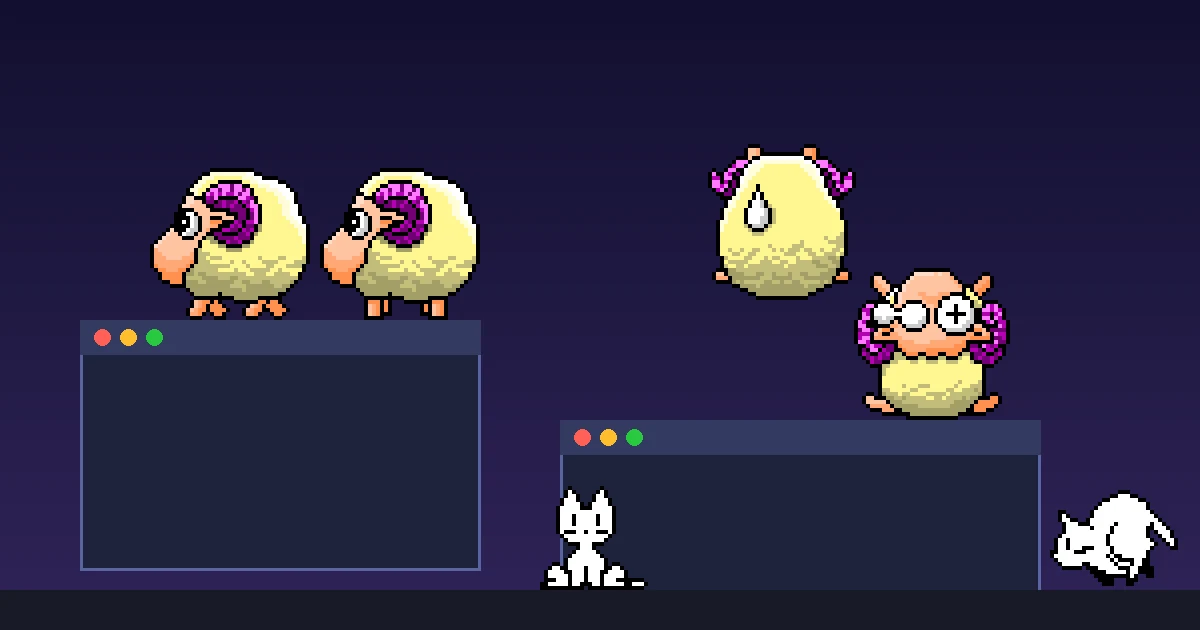
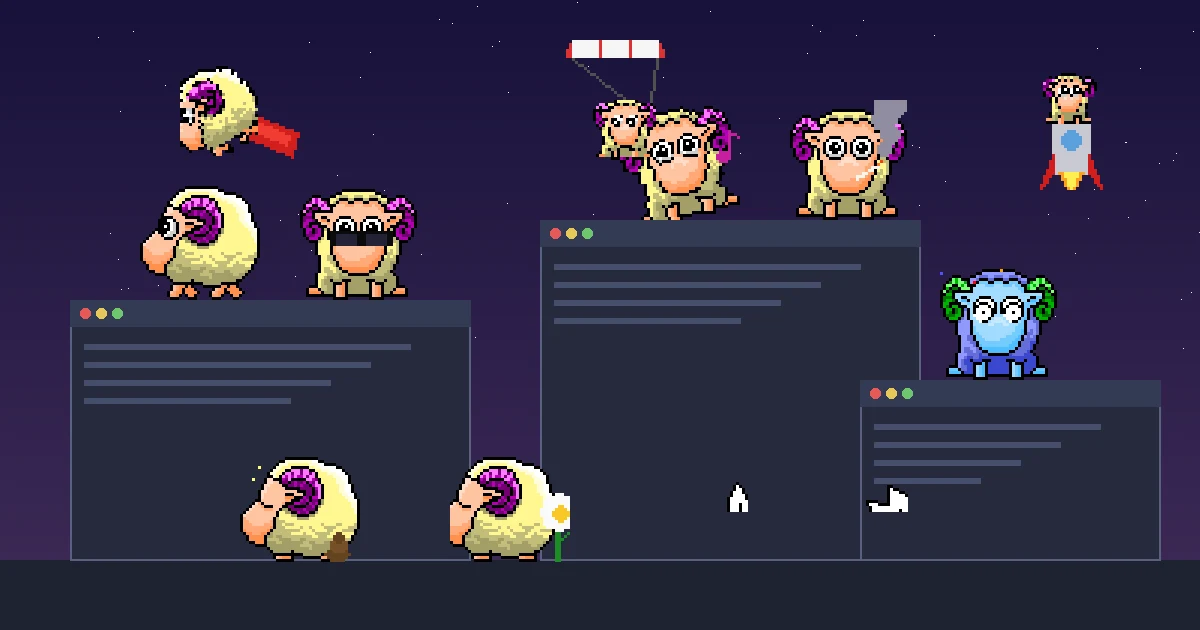
RustyPet 0.17 : les gags RustySheep sur la carte + capture fraîche

diff --git a/index.html b/index.html
@@ -1015,9 +1015,9 @@
           </div>
           <span class="fc-lang lang-rust"><span class="lang-dot"></span> Rust</span>
         </div>
-        <img class="fc-shot" src="shots/rustypet.webp" alt="RustyPet — le mouton marche sur les toits des fenêtres, le neko patrouille au sol" loading="lazy">
+        <img class="fc-shot" src="shots/rustypet.webp" alt="RustyPet — les moutons dansent, fument, volent en superman et décollent en fusée sur les toits des fenêtres" loading="lazy">
         <div class="fc-title">RustyPet</div>
-        <div class="fc-desc">Animal de bureau pour GNOME Shell (Wayland) — portage Rust du légendaire eSheep. Le mouton tombe du haut de l'écran, atterrit sur tes fenêtres, arpente leurs toits… et en retombe. Moteur pur testé sans écran, démon D-Bus + extension GNOME, les 28 pets du corpus d'origine compatibles, simulation déterministe par graine.</div>
+        <div class="fc-desc">Animal de bureau pour GNOME Shell (Wayland) — portage Rust du légendaire eSheep. Le mouton tombe du ciel, atterrit sur tes fenêtres, arpente leurs toits… et depuis la 0.17, RustySheep danse, fume, vole en superman, arrive en parachute, part en fusée, mange la fleur qui pousse et part en trip psychédélique 🐑🕶🚀. Moteur pur testé sans écran, démon D-Bus + extension GNOME, les 28 pets d'origine compatibles.</div>
         <div class="fc-tags">
           <span class="fc-tag">GNOME Shell</span>
           <span class="fc-tag">Wayland</span>
